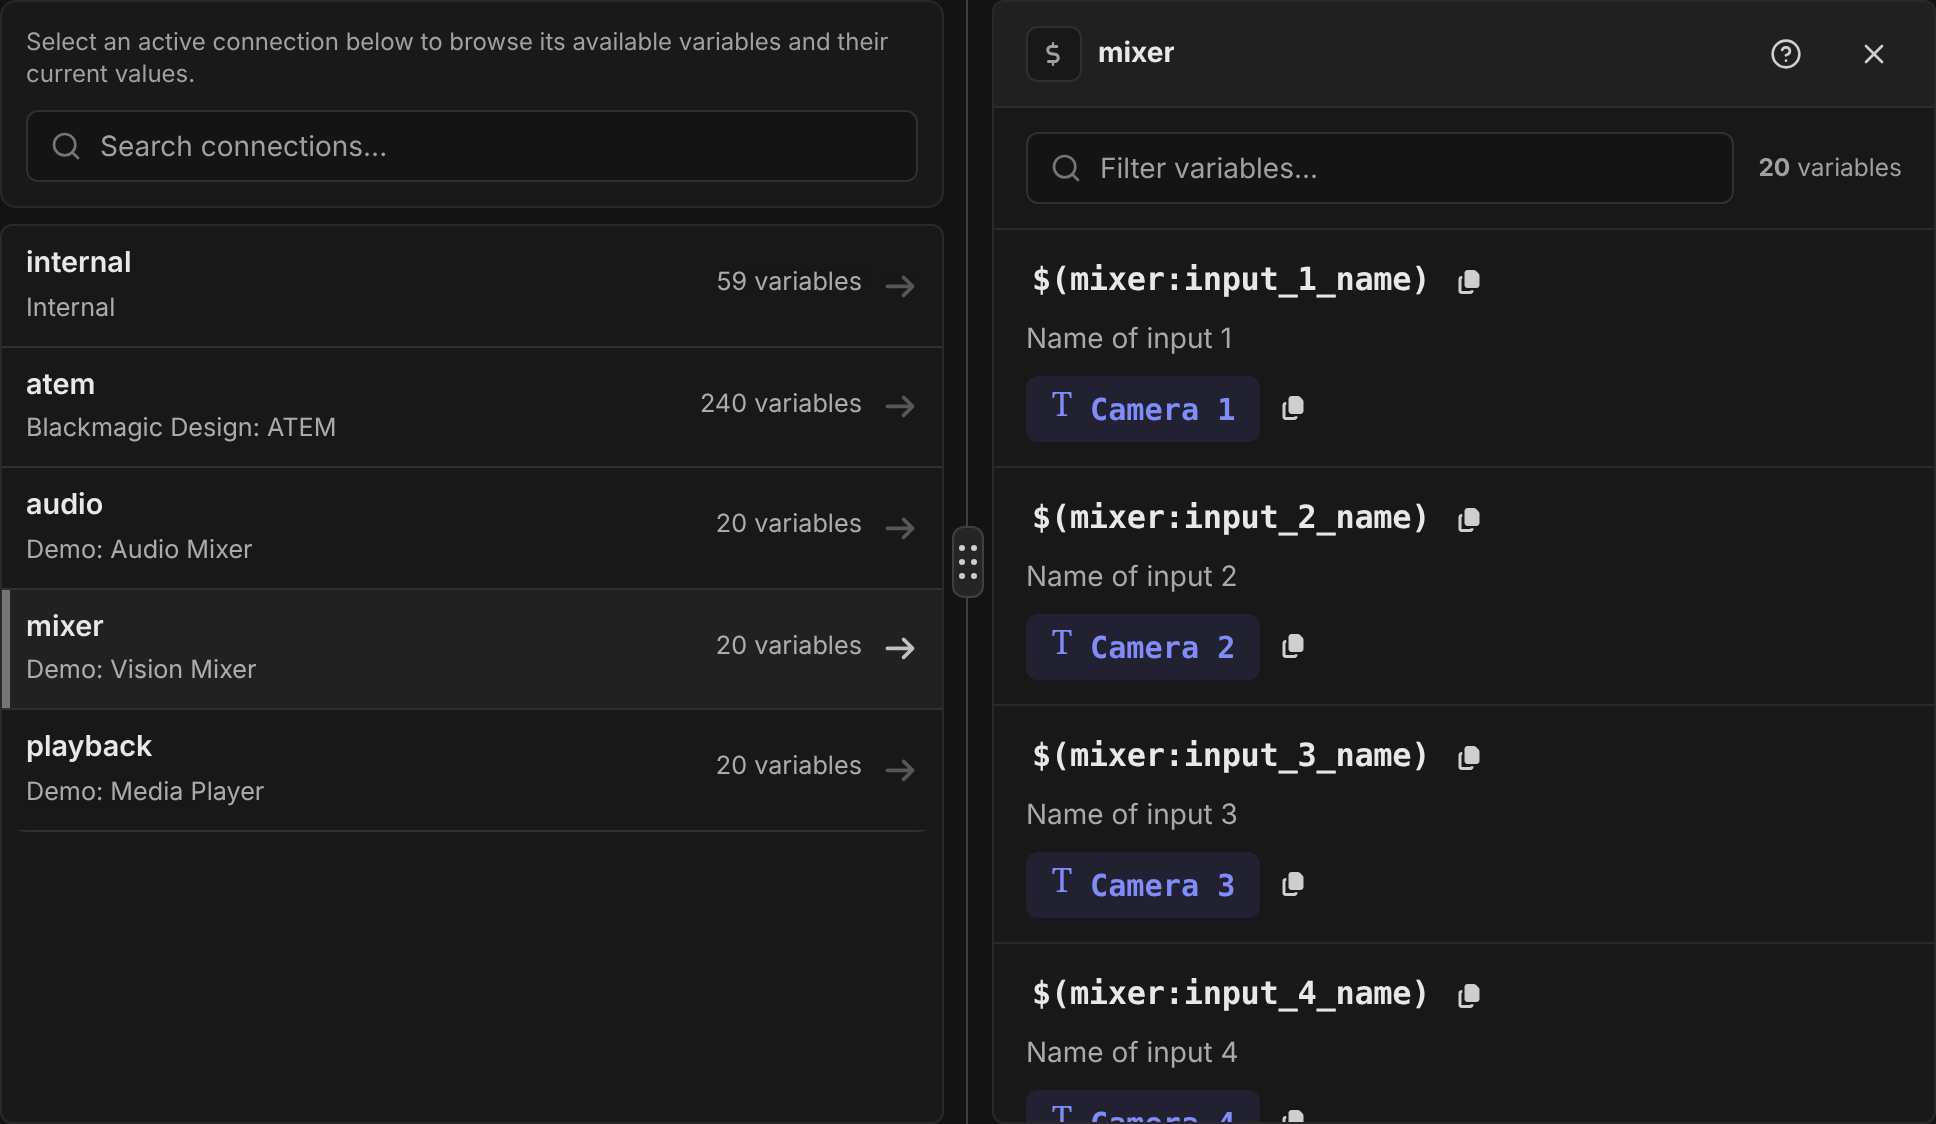
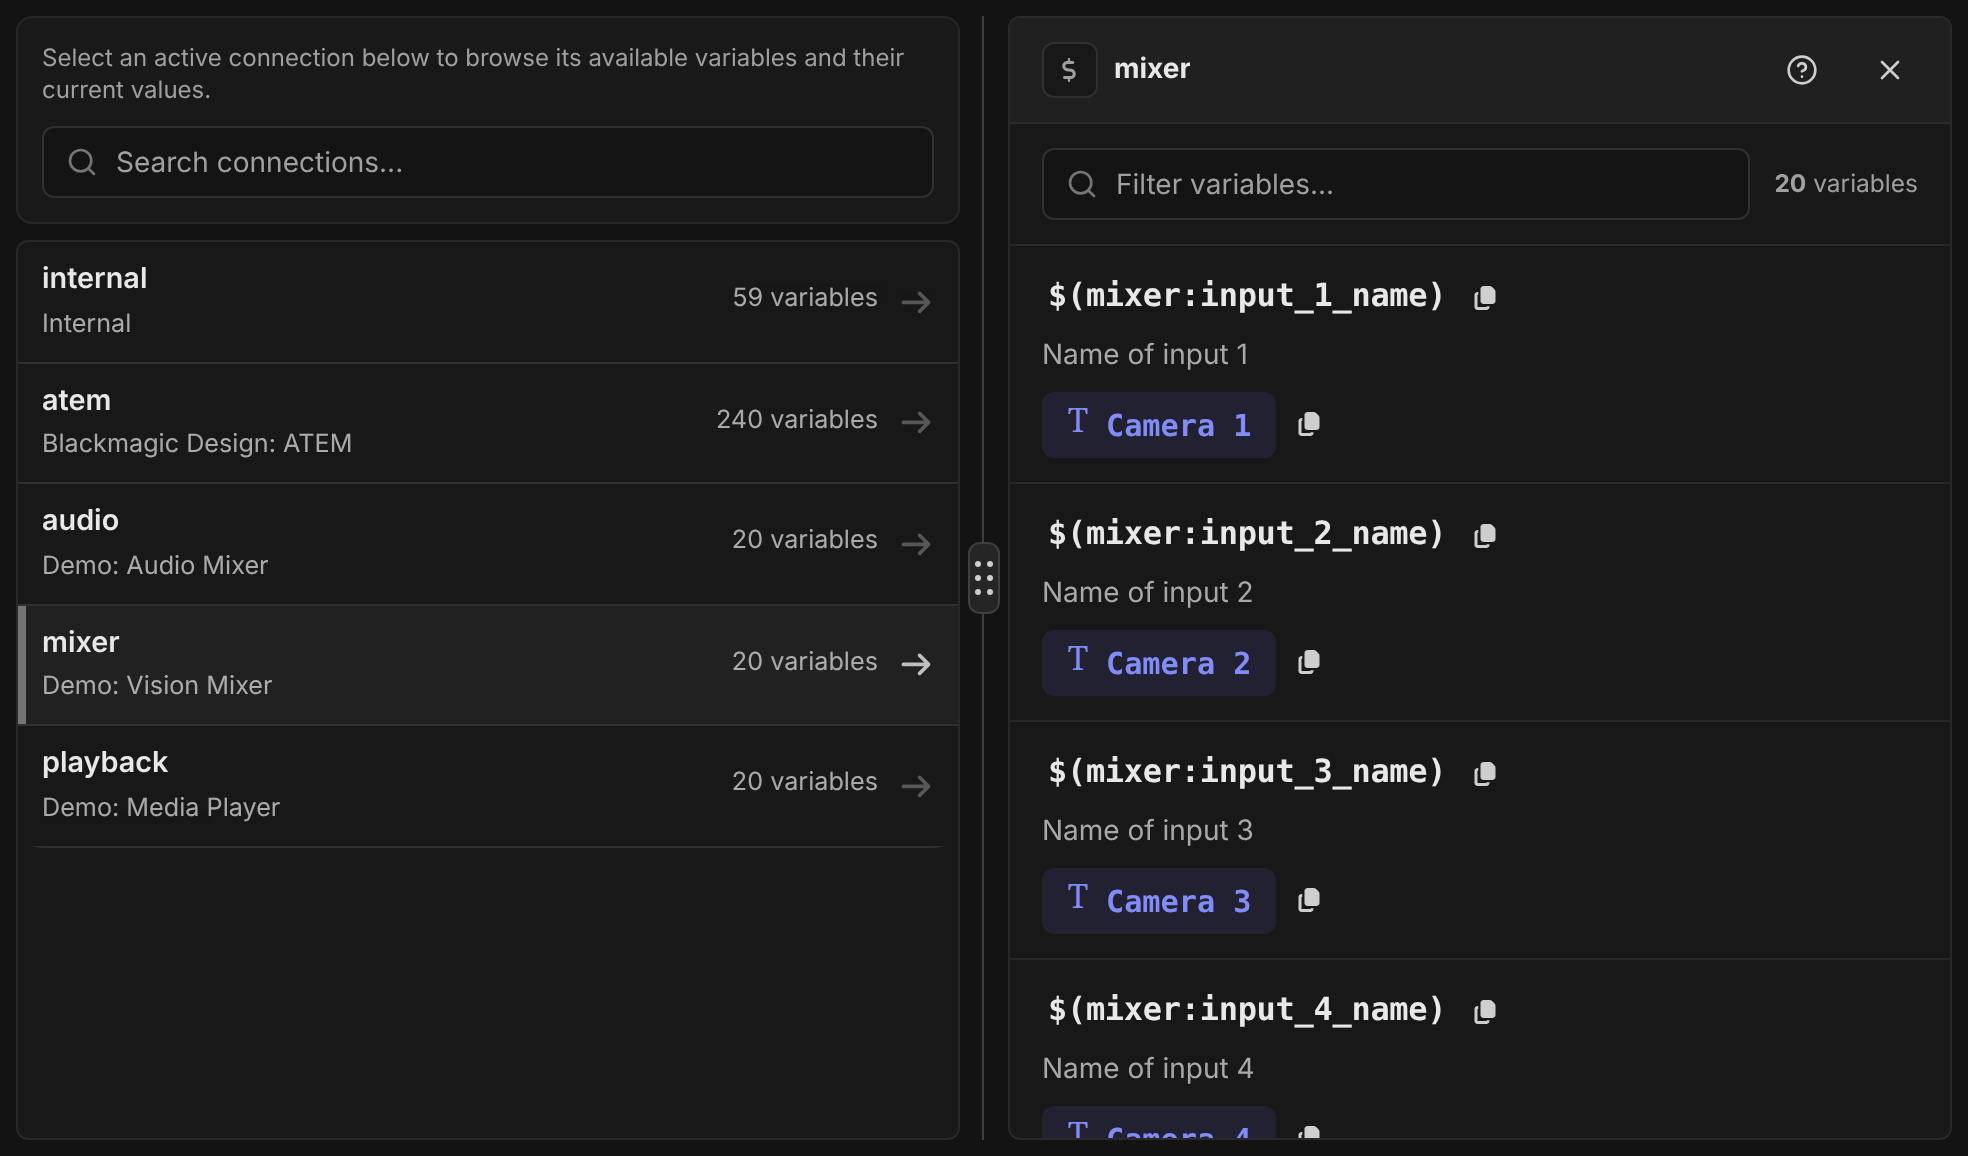
docs: show some of the page around the variables page screenshots
padClip pads an area, and fitWindowToPanel shrinks the window until a panel
which fills its height ends just below its content, so that a panel can be shot
with its edges and a few pixels of the page around it.

Claude-Session: https://claude.ai/code/session_01Vb3J9xjxFGGeH5r4UKVetu

diff --git a/e2e/docs-screenshots/variables.shots.ts b/e2e/docs-screenshots/variables.shots.ts
@@ -1,6 +1,6 @@
 import type { Page } from '@playwright/test'
 import { expect, gotoApp, test } from '../support/fixtures.js'
-import { contentClip, shoot, unionClip, withViewport } from './shoot.js'
+import { contentClip, fitWindowToPanel, padClip, shoot, unionClip, withViewport } from './shoot.js'
 
 // docs/user-guide/3_config/program/variables.md, triggers.md and image-library.md
 test.use({ scenario: 'companion/test/docs-scenarios/Studio.ts' })
@@ -13,14 +13,23 @@ const primary = (page: Page) => page.locator('.primary-panel')
 const secondary = (page: Page) => page.locator('.secondary-panel')
 
 test('variables page', async ({ page }) => {
-	await gotoApp(page, '/variables')
-	await expect(primary(page).getByText('Demo: Media Player')).toBeVisible()
-	await shoot(page, await contentClip(primary(page)), `${IMAGES}/variables-page`)
+	await withViewport(page, { width: 1920, height: 1600 }, async () => {
+		await gotoApp(page, '/variables')
+		await expect(primary(page).getByText('Demo: Media Player')).toBeVisible()
+		// Just tall enough for the list, as its card fills the height of the window, and with some of the page around it
+		await fitWindowToPanel(primary(page), 16)
+		const panel = await primary(page).boundingBox()
+		if (!panel) throw new Error('The panel is not visible')
+		await shoot(page, padClip({ page, clip: panel }, 8), `${IMAGES}/variables-page`)
+	})
 
 	await primary(page).getByText('Demo: Vision Mixer').click()
 	await expect(secondary(page).getByText('$(mixer:input_1_name)')).toBeVisible()
 	await withViewport(page, { width: 1280, height: 700 }, async () => {
-		await shoot(page, page.locator('.split-panels'), `${IMAGES}/variables-connection`)
+		const panels = await page.locator('.split-panels').boundingBox()
+		if (!panels) throw new Error('The panels are not visible')
+		// With some of the page around them
+		await shoot(page, padClip({ page, clip: panels }, 8), `${IMAGES}/variables-connection`)
 	})
 })
 

diff --git a/e2e/docs-screenshots/shoot.ts b/e2e/docs-screenshots/shoot.ts
@@ -117,6 +117,36 @@ export async function contentClip(panel: Locator, margin = 16): Promise<ShotTarg
 }
 
 /**
+ * Shrink the window until a panel which fills its height ends just below what it shows, so that the whole panel, with
+ * its edges, can be shot without the empty space below its content
+ * @param panel The panel
+ * @param margin Space to leave below its content
+ */
+export async function fitWindowToPanel(panel: Locator, margin: number): Promise<void> {
+	const page = panel.page()
+	const viewport = page.viewportSize()
+	const panelBox = await panel.boundingBox()
+	const target = await contentClip(panel, margin)
+	if (!viewport || !panelBox || !('clip' in target)) throw new Error('The panel is not visible')
+
+	const spare = panelBox.y + panelBox.height - (target.clip.y + target.clip.height)
+	await page.setViewportSize({ width: viewport.width, height: Math.ceil(viewport.height - spare) })
+}
+
+/**
+ * An area grown by some padding on every side, eg to show some of the page around a panel rather than cutting at
+ * its edges
+ */
+export function padClip(target: ShotTarget, padding: number): ShotTarget {
+	if (!('clip' in target)) throw new Error('Only an area can be padded')
+	const { x, y, width, height } = target.clip
+	return {
+		page: target.page,
+		clip: { x: x - padding, y: y - padding, width: width + padding * 2, height: height + padding * 2 },
+	}
+}
+
+/**
  * The area covering some cells of the button grid
  * @param page The page
  * @param from The top left cell, as `page/row/column`
